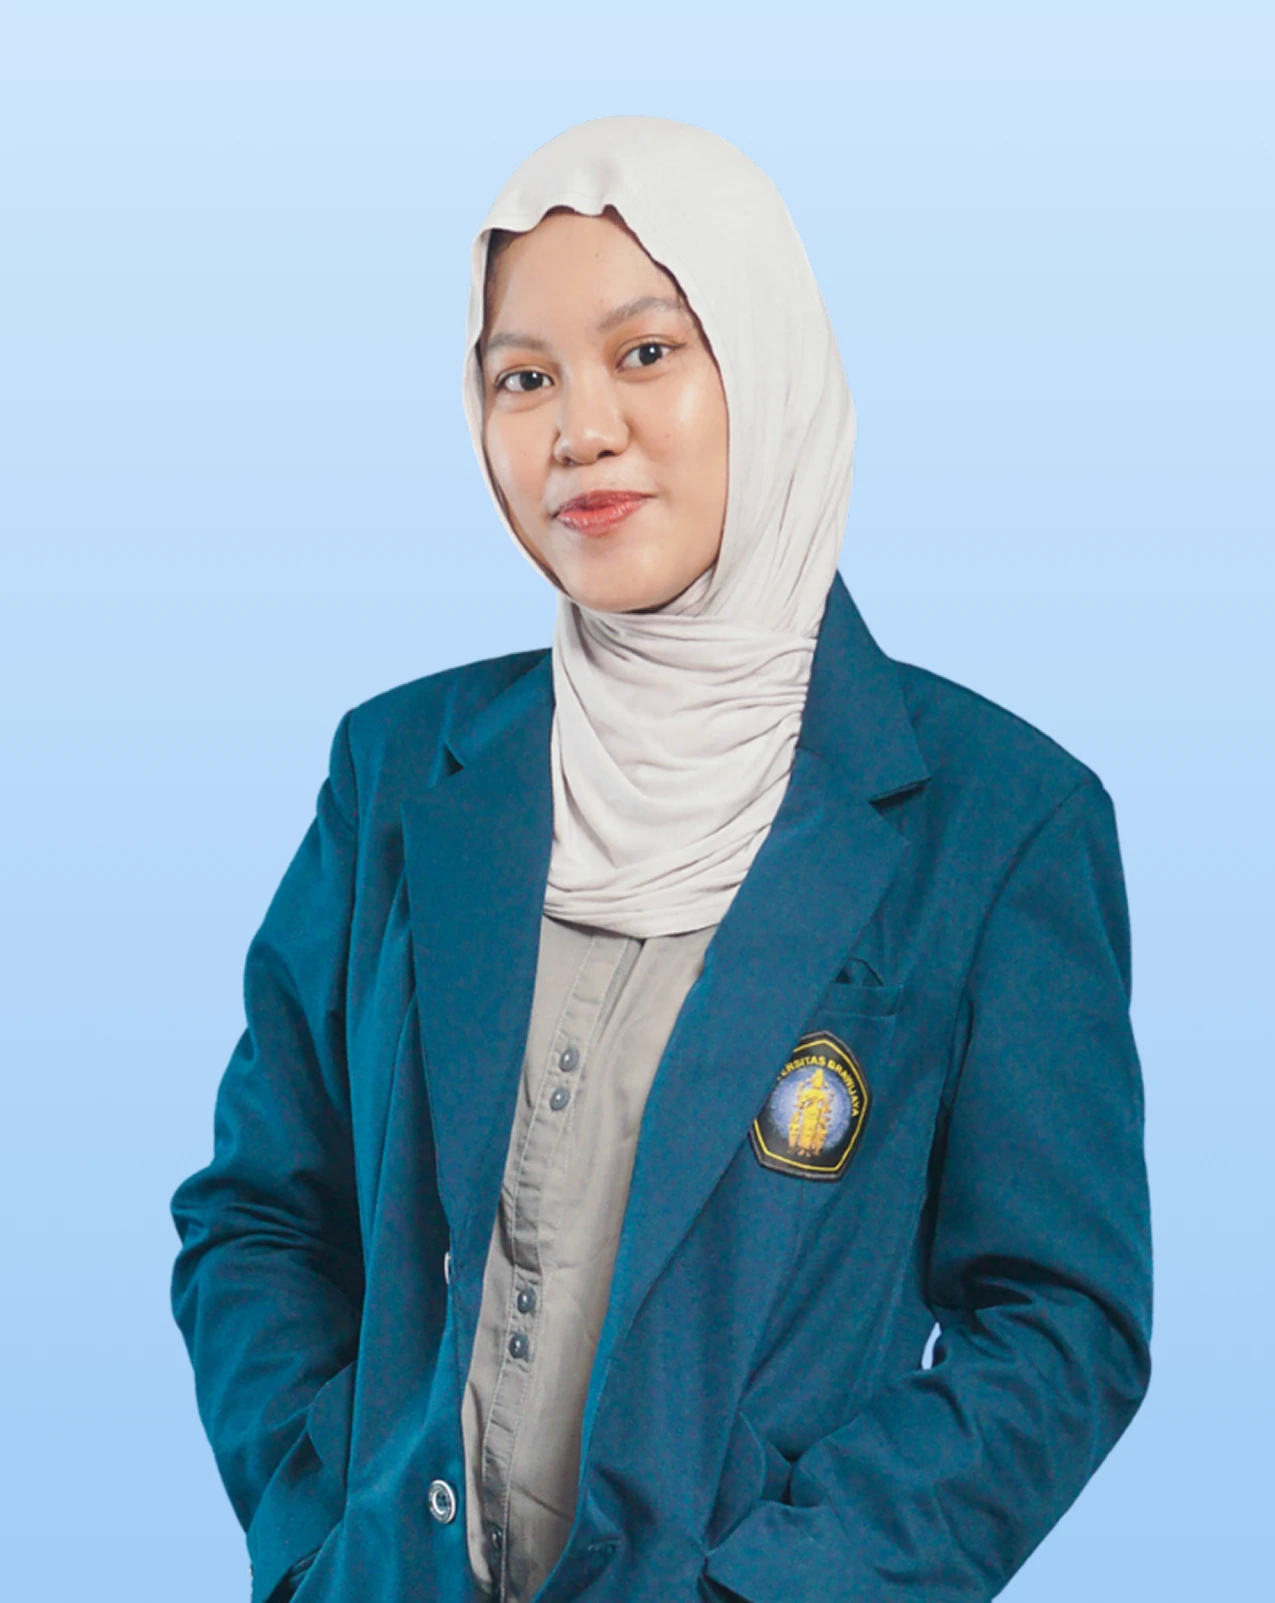
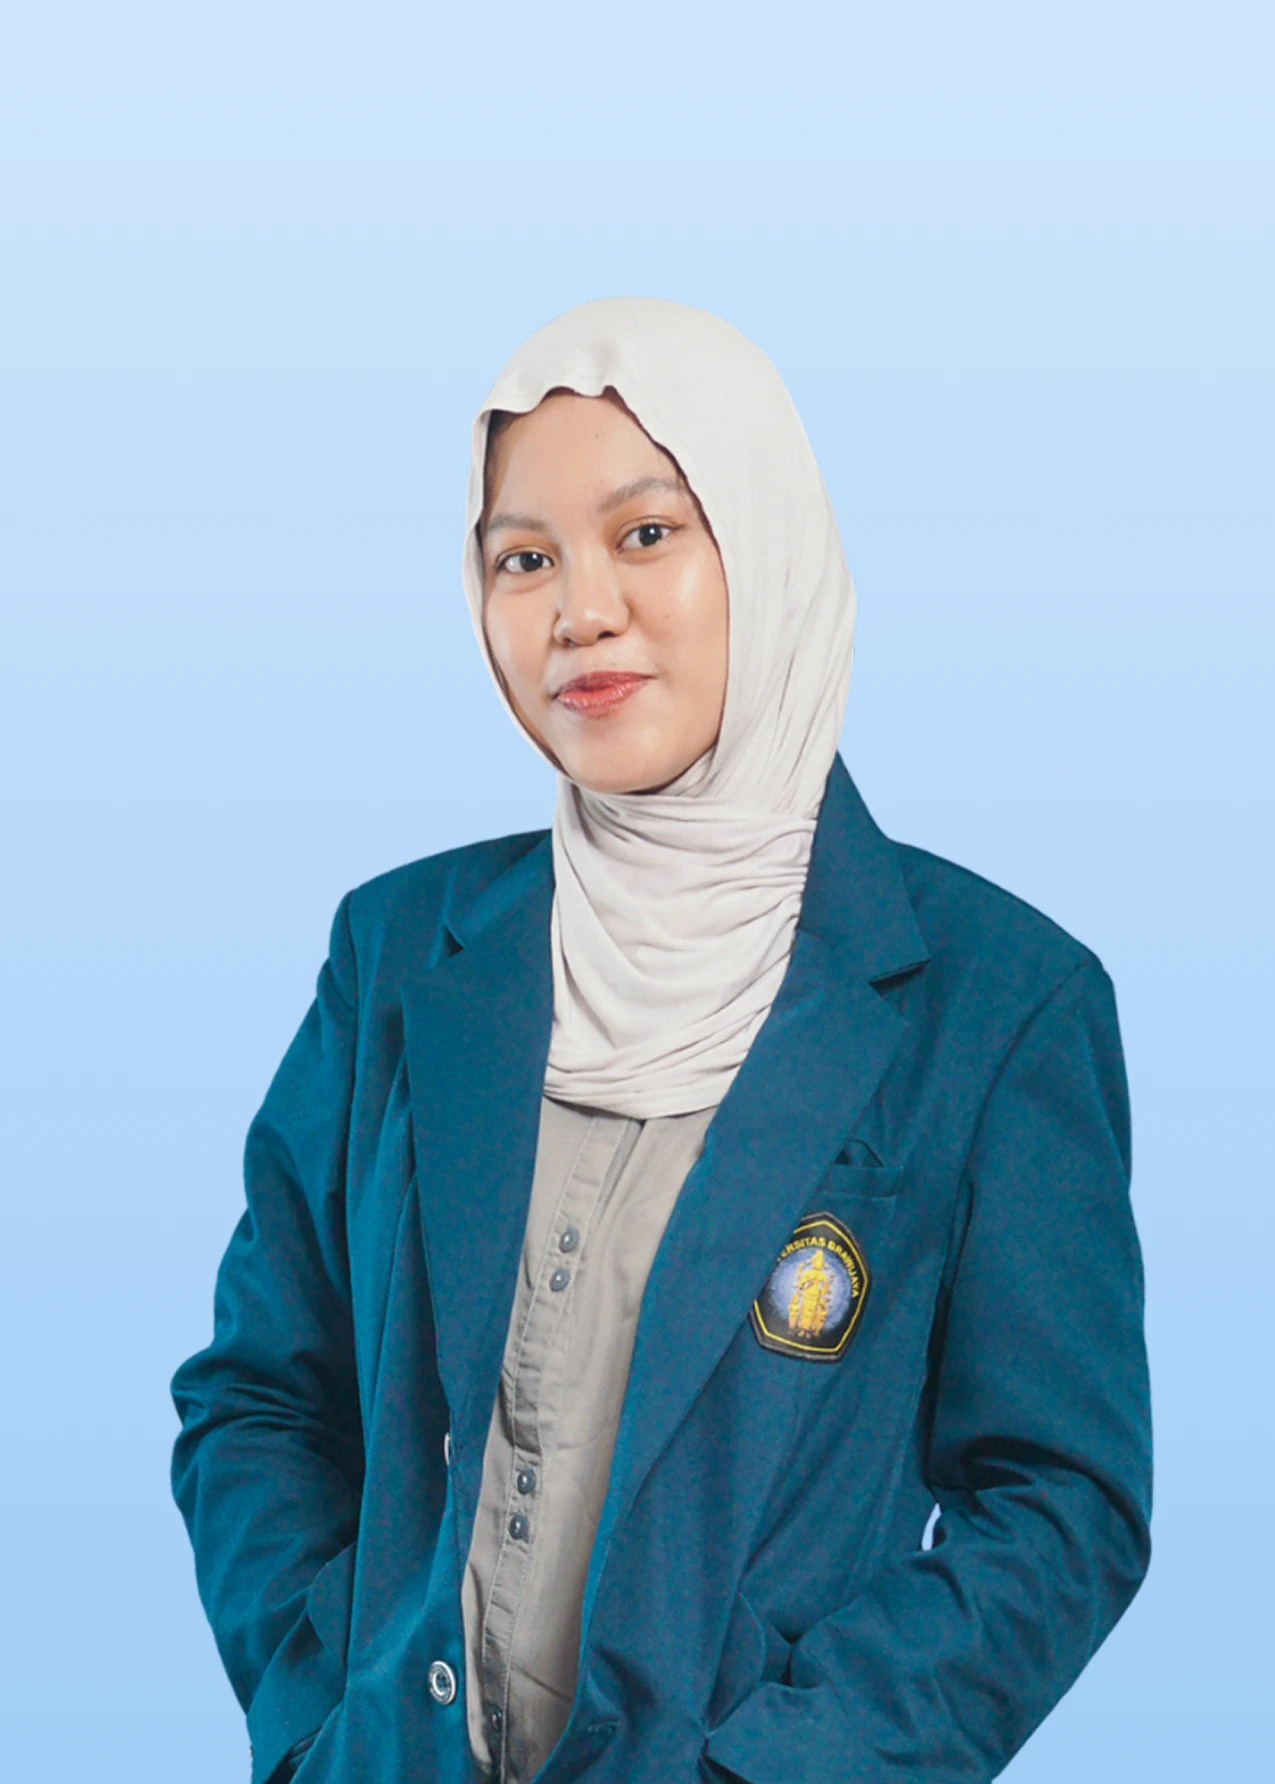
profile picture adjustment

Changed region(s): [[0.1224, 0.0624, 0.9176, 0.9981], [0.2141, 0.9669, 0.2447, 0.9981]]

diff --git a/index.html b/index.html
@@ -313,7 +313,7 @@
           >
           <div class="socials">
             <a
-              href="https://www.linkedin.com/in/ffiifiii/"
+              href="https://www.linkedin.com/in/ffiifiii"
               target="_blank"
               rel="noopener noreferrer"
               ><img
@@ -324,7 +324,7 @@
                 alt=""
               />LinkedIn</a
             ><a
-              href="https://github.com/"
+              href="https://github.com/ffiiifiii"
               target="_blank"
               rel="noopener noreferrer"
               ><img
@@ -335,7 +335,7 @@
                 alt=""
               />GitHub</a
             ><a
-              href="https://www.instagram.com/"
+              href="https://www.instagram.com/ffiifiii_"
               target="_blank"
               rel="noopener noreferrer"
               ><img
